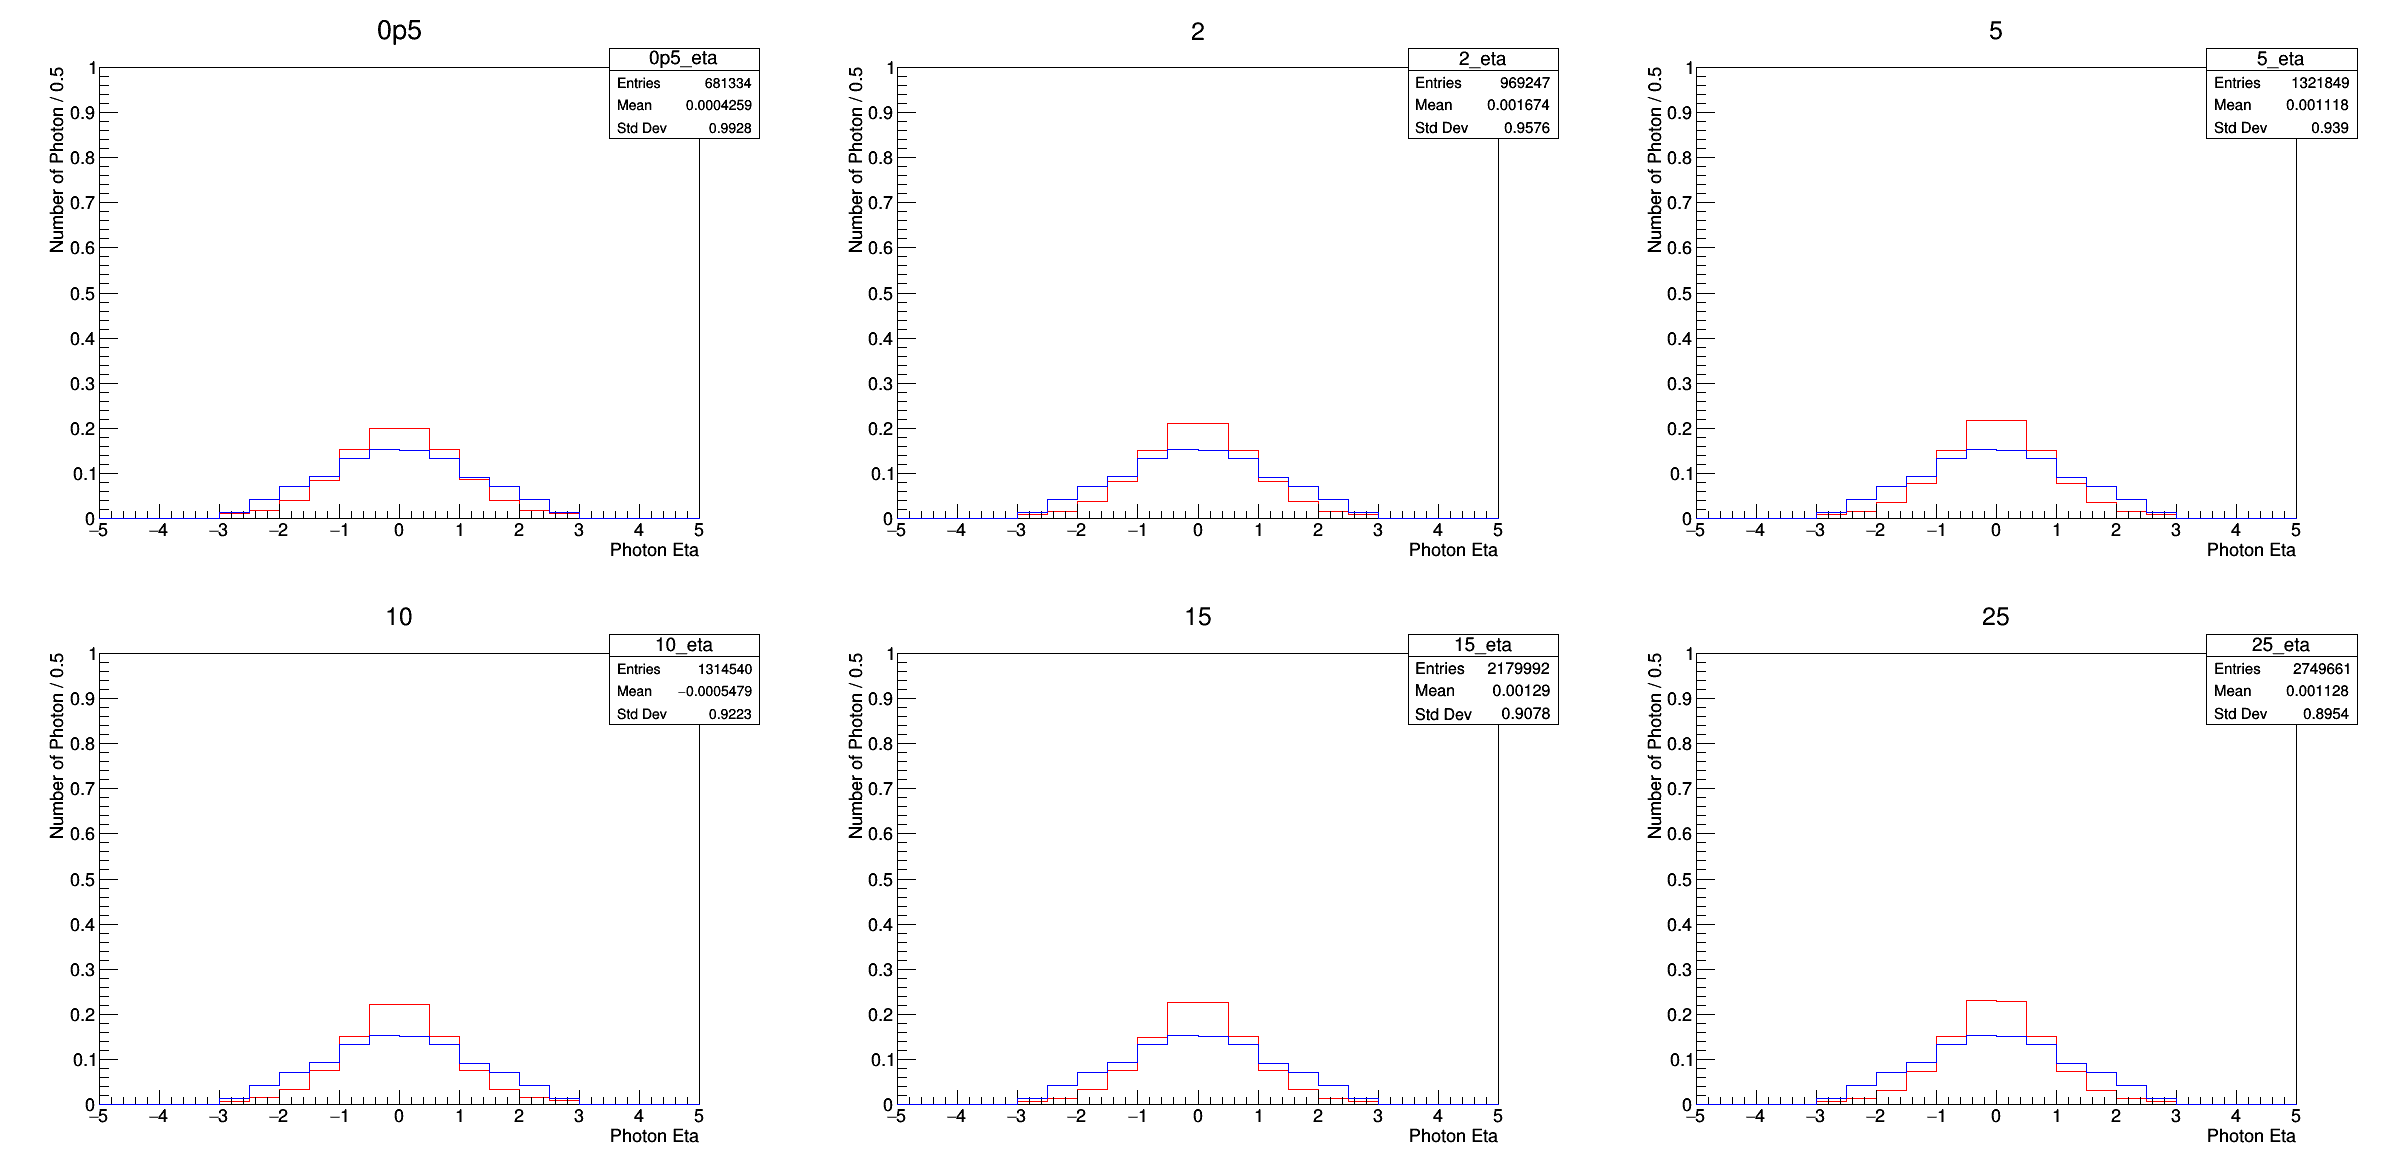
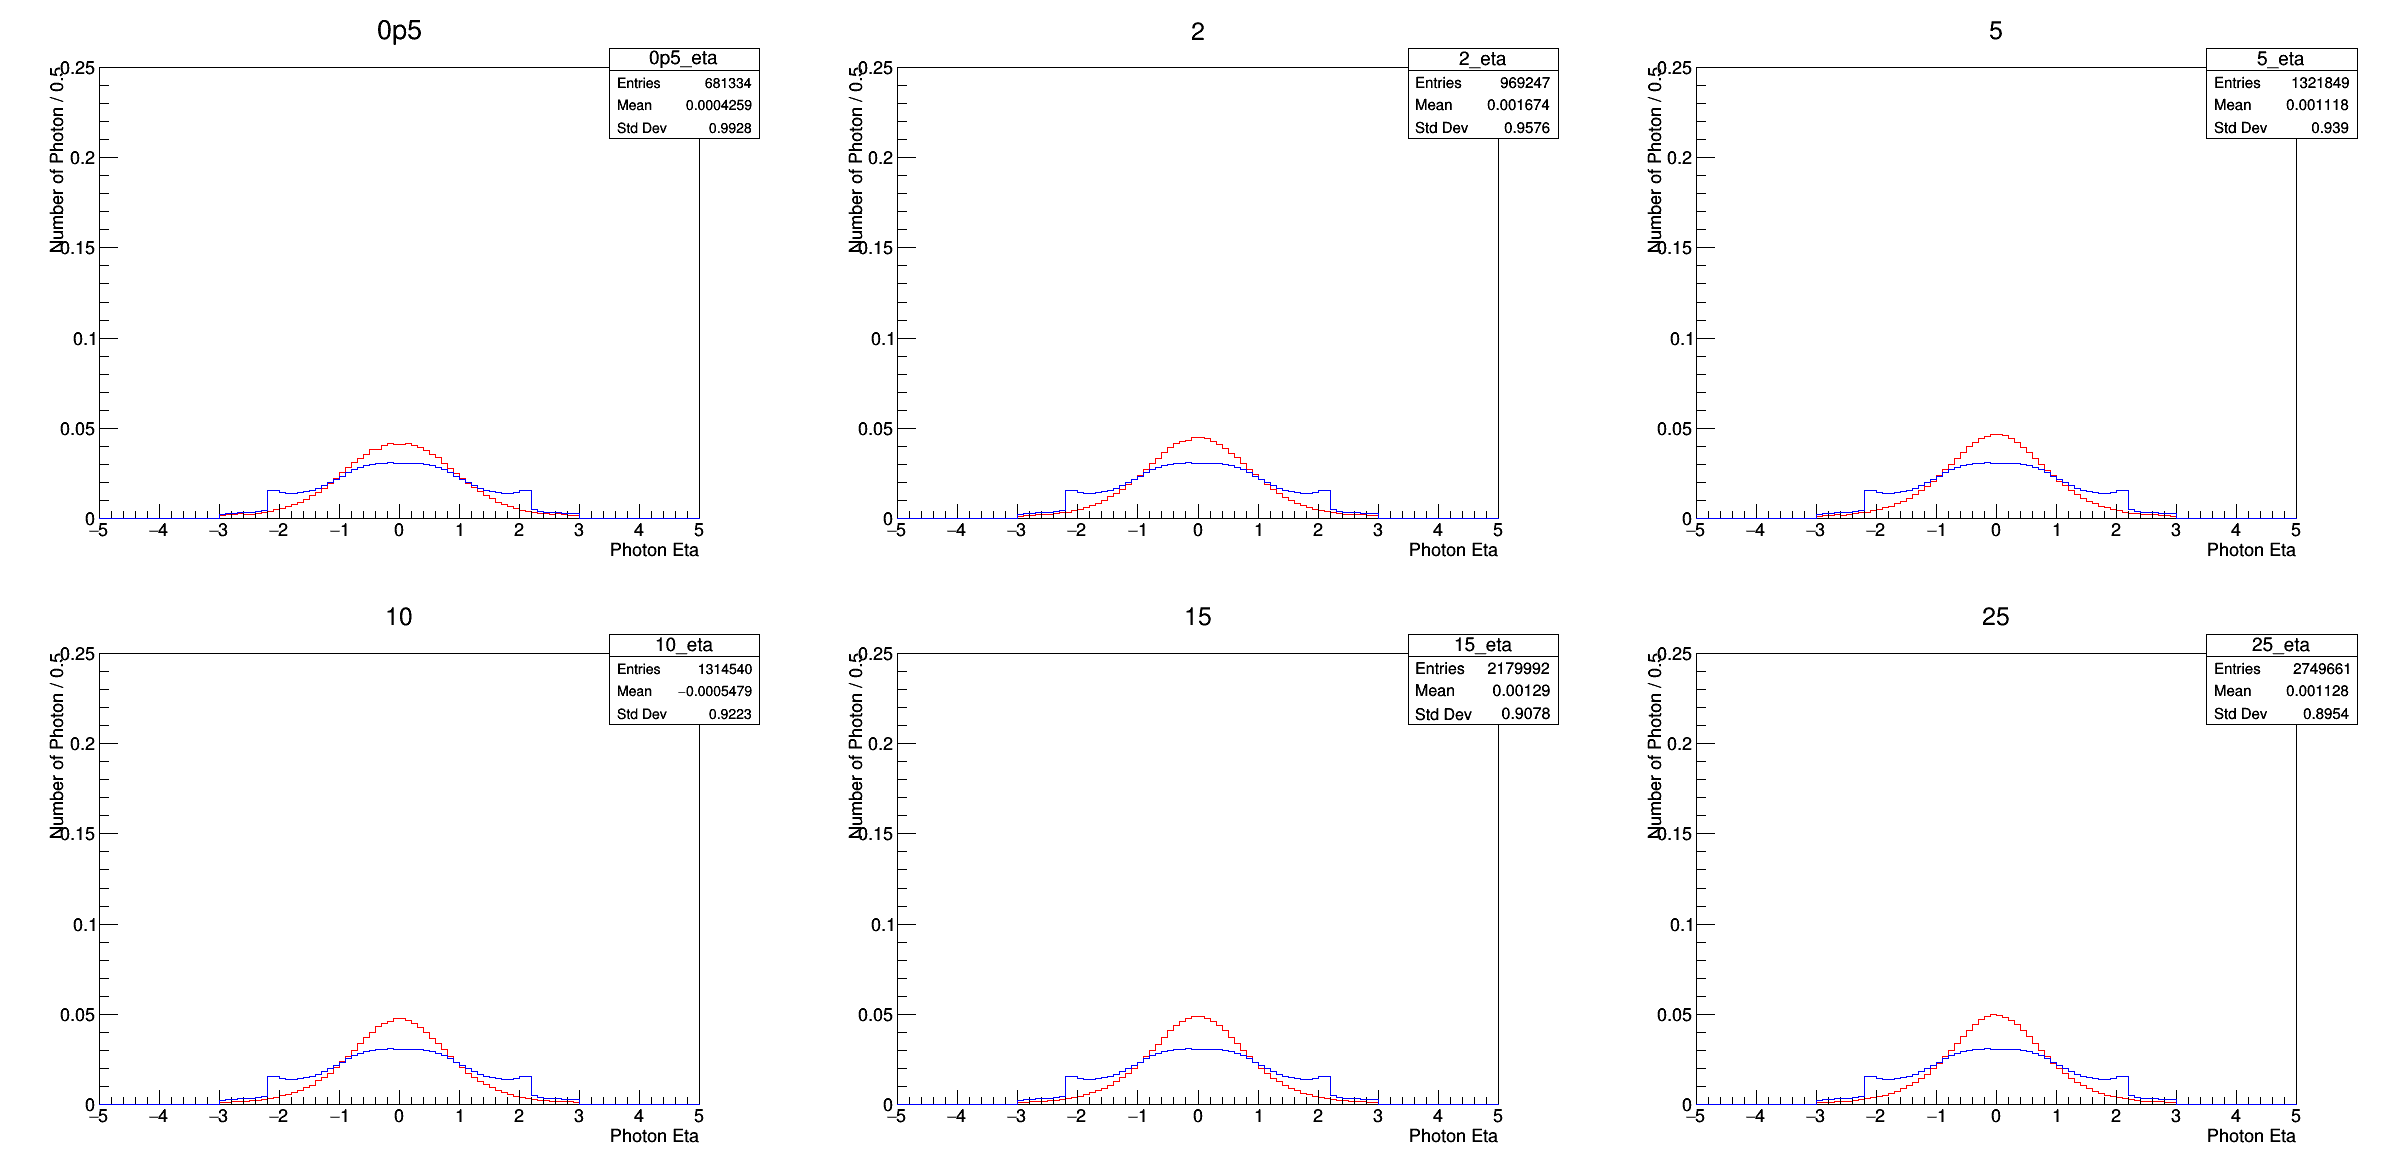
photon veto plots

diff --git a/scripts/check_reco_photon_kinematics.py b/scripts/check_reco_photon_kinematics.py
@@ -55,9 +55,9 @@ canvas_eta.Divide(num_hist_x, num_hist_y)
 i_pad = 0
 evt_chain = OrderedDict()
 bkg_evt_chain = OrderedDict()
-bkg_pt_reco = ROOT.TH1D('pt_2f_bkg','pt_2f_bkg',20,0,20)
-bkg_E_reco = ROOT.TH1D('E_2f_bkg','E_2f_bkg',20,0,20)
-bkg_eta_reco = ROOT.TH1D('eta_2f_bkg','eta_2f_bkg',20,-5,5)
+bkg_pt_reco = ROOT.TH1D('pt_2f_bkg','pt_2f_bkg',100,0,20)
+bkg_E_reco = ROOT.TH1D('E_2f_bkg','E_2f_bkg',100,0,20)
+bkg_eta_reco = ROOT.TH1D('eta_2f_bkg','eta_2f_bkg',100,-5,5)
 for bkg_key, bkg_file in bkg_files.items(): 
 	bkg_file_path = delphes_path + bkg_file
 	bkg_evt_chain[bkg_key] = load_delphes_file(bkg_file_path, 'photon')
@@ -77,13 +77,13 @@ for key, delphes_file in delphes_file_list.items():
 	i_pad += 1
 	delphes_file_path = delphes_path + delphes_file
 	evt_chain[key] = load_delphes_file(delphes_file_path, 'photon')
-	photon_pt_reco[key] = ROOT.TH1D(key+'_pt',key,20,0,20)
+	photon_pt_reco[key] = ROOT.TH1D(key+'_pt',key,100,0,20)
 	photon_pt_reco[key].GetYaxis().SetTitle("Number of Photon / 1 GeV")
 	photon_pt_reco[key].GetXaxis().SetTitle("Photon PT [GeV]")
-	photon_E_reco[key] = ROOT.TH1D(key+'_E',key,20,0,20)
+	photon_E_reco[key] = ROOT.TH1D(key+'_E',key,100,0,20)
 	photon_E_reco[key].GetYaxis().SetTitle("Number of Photon / 1 GeV")
 	photon_E_reco[key].GetXaxis().SetTitle("Photon Energy [GeV]")
-	photon_eta_reco[key] = ROOT.TH1D(key+'_eta',key,20,-5,5)
+	photon_eta_reco[key] = ROOT.TH1D(key+'_eta',key,100,-5,5)
 	photon_eta_reco[key].GetYaxis().SetTitle("Number of Photon / 0.5")
 	photon_eta_reco[key].GetXaxis().SetTitle("Photon Eta")
 
@@ -97,21 +97,21 @@ for key, delphes_file in delphes_file_list.items():
 	canvas_E.cd(i_pad)
 	photon_E_reco[key].Scale(float(1.0/photon_E_reco[key].Integral()))
 	photon_E_reco[key].SetLineColor(ROOT.kRed)
-	photon_E_reco[key].SetMaximum(1)
+	photon_E_reco[key].SetMaximum(0.25)
 	photon_E_reco[key].Draw()
 	bkg_E_reco.Draw("same")
 	ROOT.gPad.Update()
 	canvas_eta.cd(i_pad)
 	photon_eta_reco[key].Scale(float(1.0/photon_eta_reco[key].Integral()))
 	photon_eta_reco[key].SetLineColor(ROOT.kRed)
-	photon_eta_reco[key].SetMaximum(1)
+	photon_eta_reco[key].SetMaximum(0.25)
 	photon_eta_reco[key].Draw()
 	bkg_eta_reco.Draw("same")
 	ROOT.gPad.Update()
 	canvas_pt.cd(i_pad)
 	photon_pt_reco[key].Scale(float(1.0/photon_pt_reco[key].Integral()))
 	photon_pt_reco[key].SetLineColor(ROOT.kRed)
-	photon_pt_reco[key].SetMaximum(1)
+	photon_pt_reco[key].SetMaximum(0.25)
 	photon_pt_reco[key].Draw()
 	bkg_pt_reco.Draw("same")
 	ROOT.gPad.Update()
